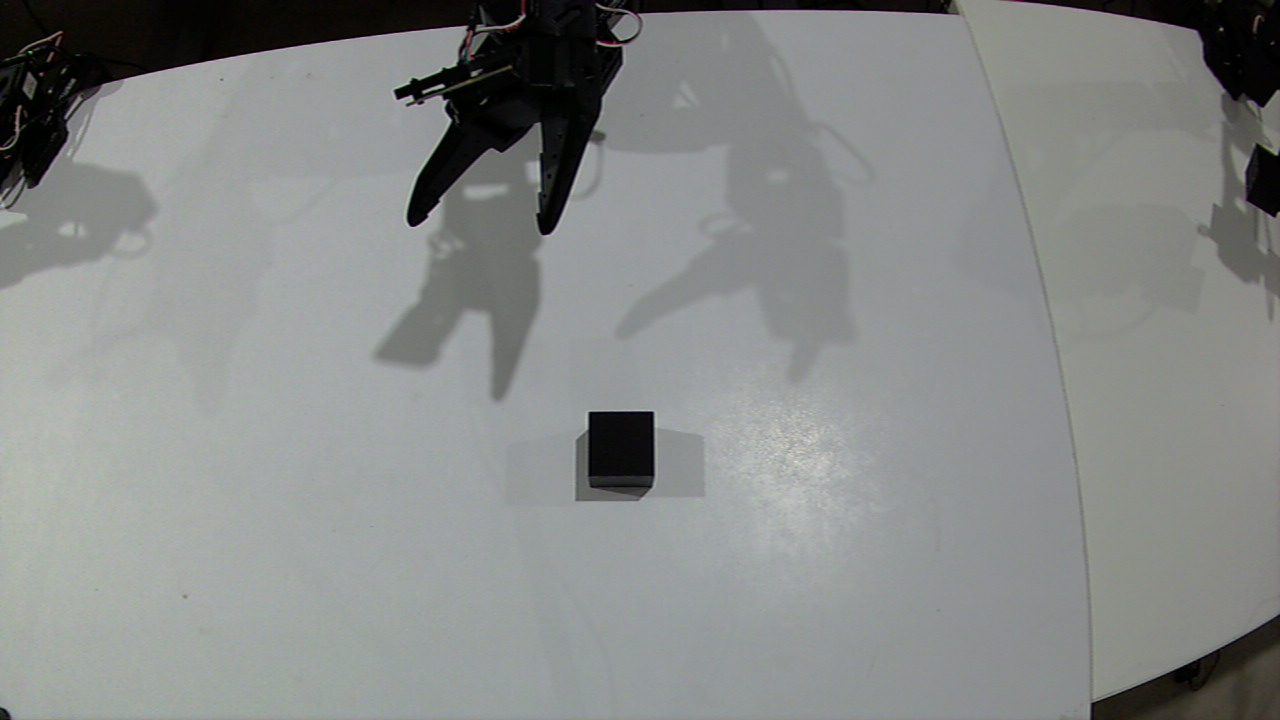
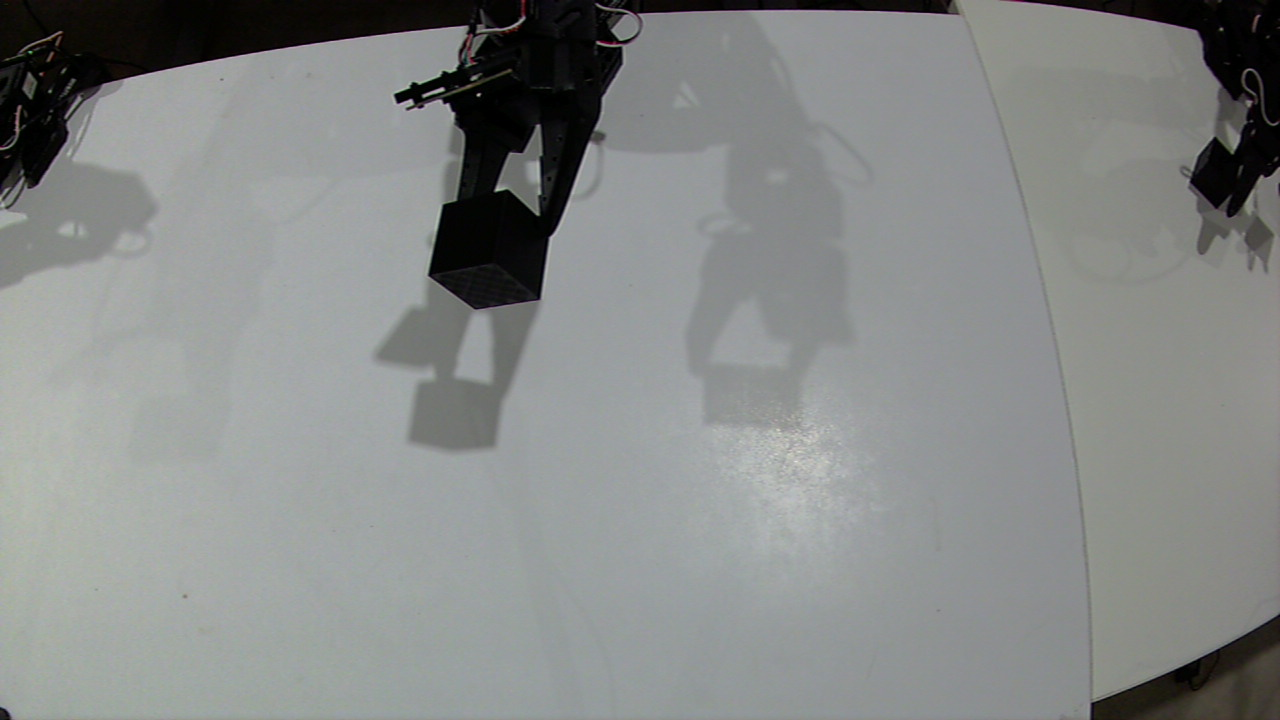
Update tools for arm-007__gpt-6-astra__grasp-cube
{"agent_id": "arm-007__gpt-6-astra__grasp-cube", "designation": "arm-007", "identity_version": 2, "model": "gpt-6-astra", "provider": "codex", "task_definition": {"description": "Start episode, pickup the black cube, bring black cube to home position, confirm successful grasp, stop episode, return object to new position, return home, repeat", "id": "grasp-cube", "success_criteria": ["successful episode coverage across the entire workspace", "achieve at least 50 successful episodes an hour"], "version": 2}, "task_id": "grasp-cube", "task_sha256": "e6c8adbb1562fdc6af3405e2e618046b110e27856c520c9f5cd329c258fb3818", "task_version": 2, "tools_sha256": "af2193eb337a2960bcb0035f3b4ccd6a7bd6e4ee3f91255a87fbc7806a7d5ece"}

diff --git a/agents/arm-007__gpt-6-astra__grasp-cube/cube_cycles.py b/agents/arm-007__gpt-6-astra__grasp-cube/cube_cycles.py
@@ -43,8 +43,9 @@ def held(b):
  img,meta=read_frame('wrist')
  dark=float(np.mean(cv2.cvtColor(img[500:650,730:1030],cv2.COLOR_BGR2GRAY)<65))
  p=b.read('Present_Position','gripper')
- ok=15<p<35 and dark>.85
- return ok,dict(gripper=p,wrist_dark=dark,frame_seq=meta['seq'])
+ upper_dark=float(np.mean(cv2.cvtColor(img[300:490,750:1000],cv2.COLOR_BGR2GRAY)<65))
+ ok=15<p<35 and (dark>.85 or upper_dark>.95)
+ return ok,dict(gripper=p,wrist_dark=dark,upper_dark=upper_dark,frame_seq=meta['seq'])
 def run(n):
  if Path('tools/cube_recovery_required.json').exists():
   raise RuntimeError('Re-localize cube and validate pickup before clearing tools/cube_recovery_required.json')
